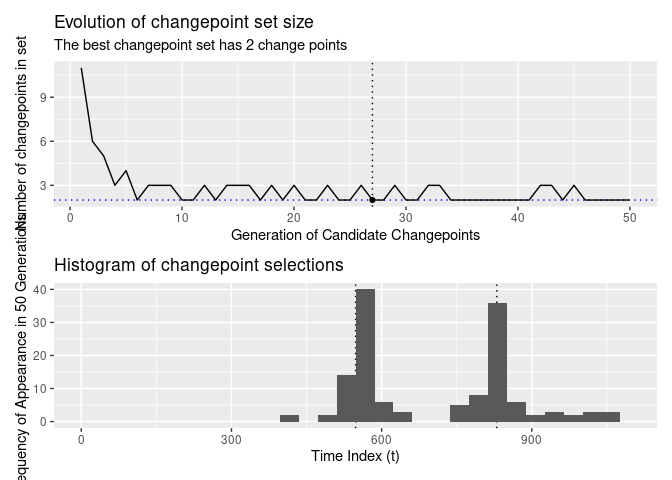
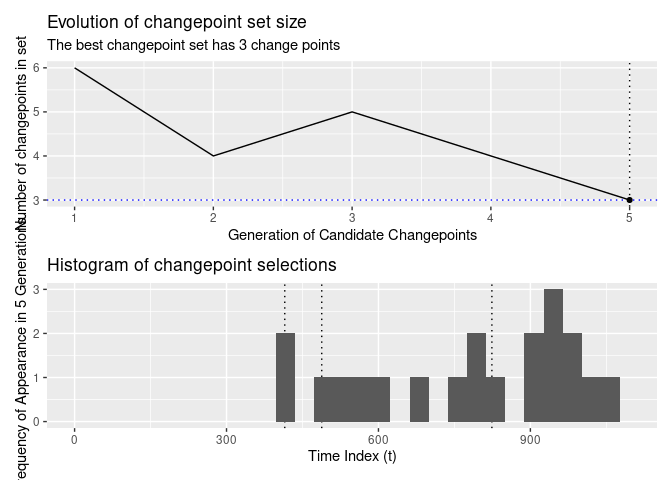
lista_AG esta muerta

diff --git a/README.md b/README.md
@@ -33,10 +33,10 @@ indicating the algorithm you wish you use. `segment()` always returns a
 `tidycpt` object.
 
 ``` r
-cpts <- segment(DataCPSim, method = "cpt-pelt")
+cpts <- segment(DataCPSim, method = "pelt")
 ```
 
-    ## method: cpt-pelt
+    ## method: pelt
 
 ``` r
 class(cpts)
@@ -106,12 +106,12 @@ tidy(cpts)
 glance(cpts)
 ```
 
-    ## # A tibble: 1 × 13
-    ##   pkg     version algorithm test_stat  MBIC num_cpts num_cpts_max min_seg_length
-    ##   <chr>   <chr>   <chr>     <chr>     <dbl>    <int>        <dbl>          <dbl>
-    ## 1 change… 2.2.4   PELT      Normal     28.0        4          Inf              2
-    ## # ℹ 5 more variables: nhpp_logLik <logLik>, nhpp_AIC <dbl>, nhpp_BIC <dbl>,
-    ## #   nhpp_MBIC <dbl>, nhpp_BMDL <dbl>
+    ## # A tibble: 1 × 11
+    ##   pkg         version algorithm params       num_cpts elapsed_time   nhpp_logLik
+    ##   <chr>       <chr>   <chr>     <list>          <int> <drtn>         <logLik>   
+    ## 1 changepoint 2.2.4   PELT      <named list>        3 0.1117537 secs -525.8797  
+    ## # ℹ 4 more variables: nhpp_AIC <dbl>, nhpp_BIC <dbl>, nhpp_MBIC <dbl>,
+    ## #   nhpp_BMDL <dbl>
 
 ### Other methods
 
@@ -131,9 +131,12 @@ modeled as a non-homogeneous Poisson process.
 diagnose(cpts)
 ```
 
-    ## Warning: Removed 2 rows containing missing values (`geom_line()`).
-    ## Removed 2 rows containing missing values (`geom_line()`).
-    ## Removed 2 rows containing missing values (`geom_line()`).
+    ## Warning: Removed 2 rows containing missing values or values outside the scale range
+    ## (`geom_line()`).
+    ## Removed 2 rows containing missing values or values outside the scale range
+    ## (`geom_line()`).
+    ## Removed 2 rows containing missing values or values outside the scale range
+    ## (`geom_line()`).
 
 ![](README_files/figure-gfm/diagnose-1.png)<!-- -->
 
@@ -167,9 +170,12 @@ DataCPSim |>
 
     ## method: null
 
-    ## Warning: Removed 2 rows containing missing values (`geom_line()`).
-    ## Removed 2 rows containing missing values (`geom_line()`).
-    ## Removed 2 rows containing missing values (`geom_line()`).
+    ## Warning: Removed 2 rows containing missing values or values outside the scale range
+    ## (`geom_line()`).
+    ## Removed 2 rows containing missing values or values outside the scale range
+    ## (`geom_line()`).
+    ## Removed 2 rows containing missing values or values outside the scale range
+    ## (`geom_line()`).
 
 ![](README_files/figure-gfm/null-plot-1.png)<!-- -->
 
@@ -184,9 +190,12 @@ DataCPSim |>
 
     ## method: manual
 
-    ## Warning: Removed 2 rows containing missing values (`geom_line()`).
-    ## Removed 2 rows containing missing values (`geom_line()`).
-    ## Removed 2 rows containing missing values (`geom_line()`).
+    ## Warning: Removed 2 rows containing missing values or values outside the scale range
+    ## (`geom_line()`).
+    ## Removed 2 rows containing missing values or values outside the scale range
+    ## (`geom_line()`).
+    ## Removed 2 rows containing missing values or values outside the scale range
+    ## (`geom_line()`).
 
 ![](README_files/figure-gfm/manual-plot-1.png)<!-- -->
 
@@ -201,9 +210,12 @@ DataCPSim |>
 
     ## method: single-best
 
-    ## Warning: Removed 2 rows containing missing values (`geom_line()`).
-    ## Removed 2 rows containing missing values (`geom_line()`).
-    ## Removed 2 rows containing missing values (`geom_line()`).
+    ## Warning: Removed 2 rows containing missing values or values outside the scale range
+    ## (`geom_line()`).
+    ## Removed 2 rows containing missing values or values outside the scale range
+    ## (`geom_line()`).
+    ## Removed 2 rows containing missing values or values outside the scale range
+    ## (`geom_line()`).
 
 ![](README_files/figure-gfm/amoc-plot-1.png)<!-- -->
 
@@ -217,57 +229,86 @@ DataCPSim |>
 
     ## method: random
 
-    ## Warning: Removed 2 rows containing missing values (`geom_line()`).
-    ## Removed 2 rows containing missing values (`geom_line()`).
-    ## Removed 2 rows containing missing values (`geom_line()`).
+    ## Warning: Removed 2 rows containing missing values or values outside the scale range
+    ## (`geom_line()`).
+    ## Removed 2 rows containing missing values or values outside the scale range
+    ## (`geom_line()`).
+    ## Removed 2 rows containing missing values or values outside the scale range
+    ## (`geom_line()`).
 
 ![](README_files/figure-gfm/random-plot-1.png)<!-- -->
 
 ### Genetic BMDL
 
-- `method = "cpt-gbmdl"`: implements the Genetic BMDL heuristic
+- `method = "gbmdl"`: implements the Genetic BMDL heuristic
 
 ``` r
-# DataCPSim |>
-#   segment(method = "cpt-gbmdl")
-changepoints(lista_AG)
+x <- DataCPSim |>
+  segment(method = "gbmdl", num_generations = 5)
 ```
 
-    ## [1] 548 830
+    ## method: gbmdl
+
+    ##   |                                                                    |                                                            |   0%  |                                                                    |===============                                             |  25%  |                                                                    |==============================                              |  50%  |                                                                    |=============================================               |  75%  |                                                                    |============================================================| 100%
 
 ``` r
-diagnose(lista_AG)
+changepoints(x)
 ```
 
-    ## Warning: Removed 2 rows containing missing values (`geom_line()`).
-    ## Removed 2 rows containing missing values (`geom_line()`).
-    ## Removed 2 rows containing missing values (`geom_line()`).
+    ## [1] 415 488 824
+
+``` r
+diagnose(x)
+```
+
+    ## Warning: Removed 2 rows containing missing values or values outside the scale range
+    ## (`geom_line()`).
+    ## Removed 2 rows containing missing values or values outside the scale range
+    ## (`geom_line()`).
+    ## Removed 2 rows containing missing values or values outside the scale range
+    ## (`geom_line()`).
 
 ![](README_files/figure-gfm/gbmdl-tidyplot-1.png)<!-- -->
 
 Diagnostic plots are also available.
 
 ``` r
-plot(lista_AG$segmenter)
+plot(x$segmenter)
 ```
 
     ## method: null
 
     ## method: single-best
 
-    ## method: cpt-pelt
+    ## method: pelt
 
     ## `geom_smooth()` using method = 'loess' and formula = 'y ~ x'
+
+    ## Warning in simpleLoess(y, x, w, span, degree = degree, parametric = parametric,
+    ## : span too small.  fewer data values than degrees of freedom.
+
+    ## Warning in simpleLoess(y, x, w, span, degree = degree, parametric = parametric,
+    ## : pseudoinverse used at 0.98
+
+    ## Warning in simpleLoess(y, x, w, span, degree = degree, parametric = parametric,
+    ## : neighborhood radius 2.02
+
+    ## Warning in simpleLoess(y, x, w, span, degree = degree, parametric = parametric,
+    ## : reciprocal condition number 0
+
+    ## Warning in simpleLoess(y, x, w, span, degree = degree, parametric = parametric,
+    ## : There are other near singularities as well. 4.0804
 
 ![](README_files/figure-gfm/plot-gbmdl-1.png)<!-- -->
 
 ``` r
-diagnose(lista_AG$segmenter)
+diagnose(x$segmenter)
 ```
 
     ## `stat_bin()` using `bins = 30`. Pick better value with `binwidth`.
 
-    ## Warning: Removed 2 rows containing missing values (`geom_bar()`).
+    ## Warning: Removed 2 rows containing missing values or values outside the scale range
+    ## (`geom_bar()`).
 
 ![](README_files/figure-gfm/diagnostic-1.png)<!-- -->
 
